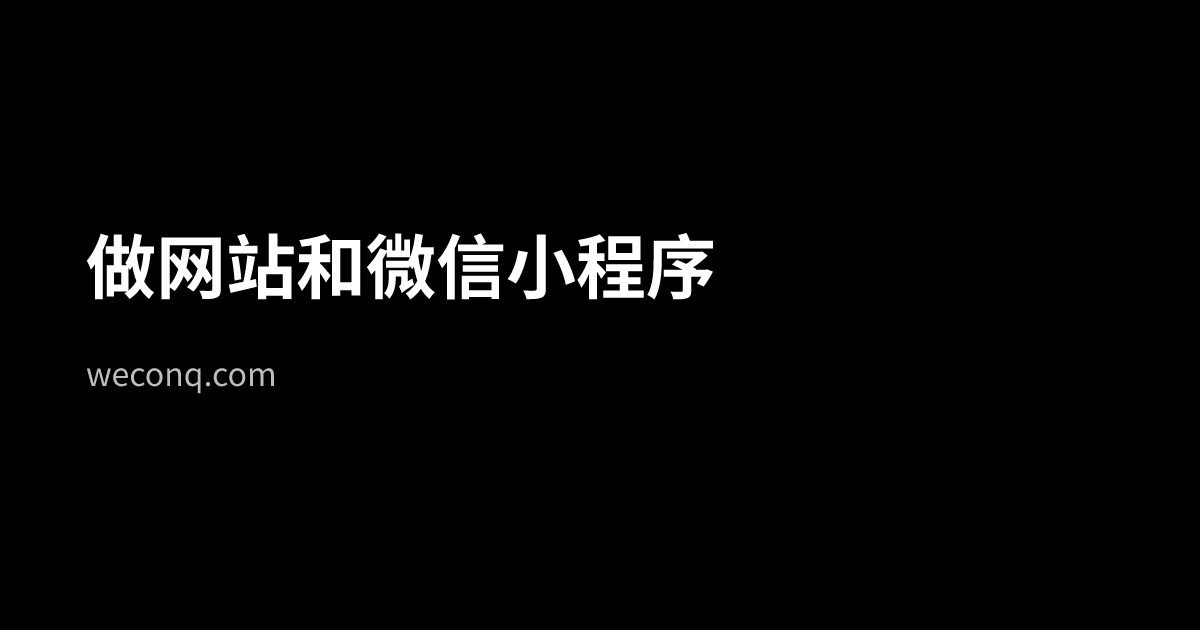
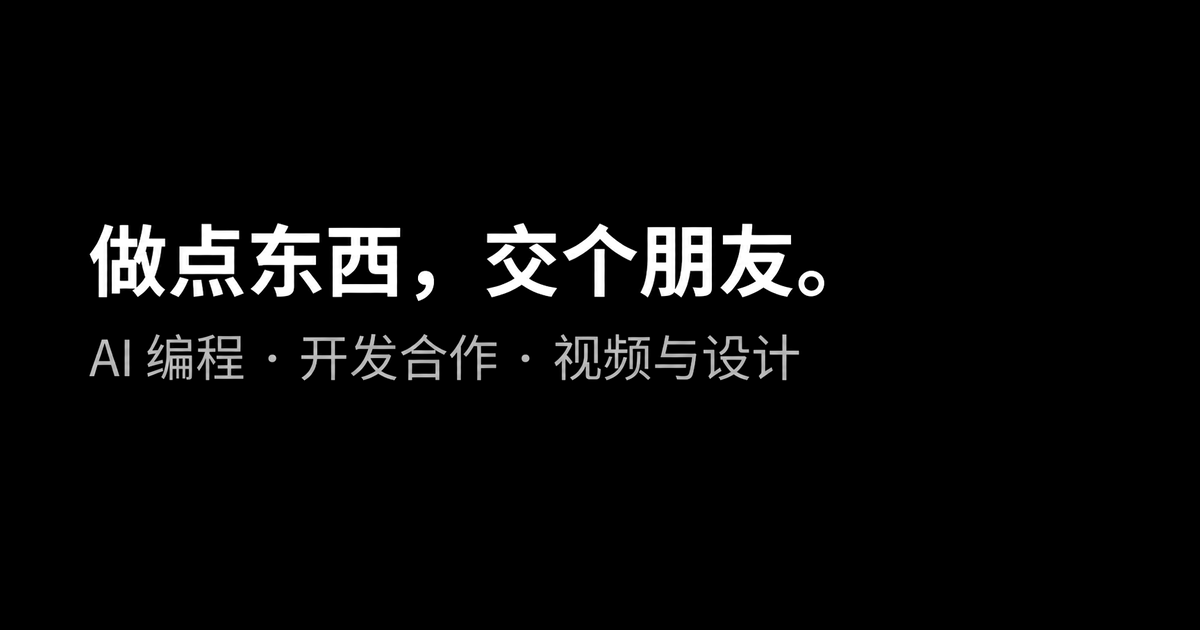
Rework the homepage around learning AI, collaborating and meeting people

Changed region(s): [[0.0617, 0.3619, 0.7092, 0.4825], [0.0617, 0.5127, 0.4317, 0.6333], [0.4625, 0.5127, 0.6783, 0.6032]]

diff --git a/src/app/globals.css b/src/app/globals.css
@@ -1,165 +1,116 @@
 :root {
   color-scheme: dark;
-  --paper: #000;
-  --ink: #fff;
-  --muted: #bdbdbd;
-  --td-brand-color: #fff;
-  --td-brand-color-hover: #e5e5e5;
-  --td-brand-color-active: #d0d0d0;
-  --td-brand-color-focus: #333;
-  --td-brand-color-disabled: #777;
-  --td-brand-color-light: #202020;
-  --td-brand-color-light-hover: #262626;
-  --td-bg-color-page: var(--paper);
-  --td-bg-color-container: #121212;
+  --paper: #090909;
+  --ink: #f5f5f5;
+  --body: #c2c2c2;
+  --soft: #aaa;
+  --line: #373737;
+  --td-brand-color: var(--ink);
+  --td-brand-color-hover: #fff;
   --td-text-color-primary: var(--ink);
-  --td-text-color-secondary: var(--muted);
-  --td-text-color-anti: var(--paper);
-  --td-component-border: #555;
-  --accent: var(--td-brand-color);
 }
 
-* {
-  box-sizing: border-box;
-}
-
+* { box-sizing: border-box; }
 body {
-  min-height: 100vh;
   margin: 0;
-  display: flex;
-  flex-direction: column;
+  min-height: 100vh;
   background: var(--paper);
   color: var(--ink);
-  font-family: system-ui, -apple-system, "PingFang SC", "Microsoft YaHei", sans-serif;
-  font-size: 1rem;
-  line-height: 1.65;
+  font: 1rem/1.75 system-ui, -apple-system, "PingFang SC", "Microsoft YaHei", sans-serif;
+  -webkit-font-smoothing: antialiased;
 }
-
-::selection {
-  background: var(--ink);
-  color: var(--paper);
+h1, h2, p, ul { margin: 0; }
+a { color: inherit; text-decoration: none; }
+button, a { touch-action: manipulation; }
+::selection { background: #eee; color: #101010; }
+:focus-visible { outline: 2px solid #fff; outline-offset: 4px; }
+[id] { scroll-margin-block: 1.5rem; }
+.shell { width: min(66rem, calc(100% - 5rem)); margin-inline: auto; }
+.masthead, .masthead nav, .colophon { display: flex; align-items: center; }
+.masthead {
+  justify-content: space-between;
+  min-height: 5.25rem;
+  border-bottom: 1px solid var(--line);
 }
-
-:focus-visible {
-  outline: 2px solid var(--accent);
-  outline-offset: 4px;
+.wordmark {
+  font-family: "Arial Black", "Helvetica Neue", Arial, sans-serif;
+  font-size: 1.18rem;
+  font-weight: 900;
+  letter-spacing: -.055em;
 }
-
-.shell {
-  width: min(28rem, calc(100% - 3rem));
-  margin-inline: auto;
+.masthead nav { gap: 1.5rem; }
+.masthead nav a, .colophon, .colophon .t-link { font-size: .875rem; color: var(--soft); }
+.masthead nav a { padding-block: .5rem; }
+.masthead nav a:hover, .colophon .t-link:hover { color: var(--ink); text-decoration: underline; }
+.spread {
+  display: grid;
+  grid-template-columns: minmax(0, 1fr) minmax(0, .94fr);
+  grid-template-areas: "intro work" "contact work";
+  grid-template-rows: auto 1fr;
+  column-gap: clamp(3rem, 7vw, 7rem);
+  row-gap: 2rem;
+  padding-block: clamp(3.75rem, 8vh, 6.5rem);
 }
-
-.page {
-  padding-block: clamp(3rem, 15vh, 10rem) 3rem;
+.introduction { grid-area: intro; }
+h1 {
+  font-size: clamp(3.1rem, 5.9vw, 4.9rem);
+  line-height: 1.19;
+  letter-spacing: -.065em;
+  font-weight: 760;
 }
-
-.page h1 {
-  margin: 0 0 1rem;
-  font-size: clamp(1.65rem, 5vw, 2.1rem);
-  font-weight: 650;
-  line-height: 1.25;
-}
-
-.intro p,
-.contact p {
-  margin: 0;
-}
-
-.intro p + p {
-  margin-top: 0.3rem;
-}
-
-.availability,
-.contact-note,
-.site-footer {
-  color: var(--muted);
-  font-size: 0.875rem;
-}
-
-.contact,
-.accounts {
-  margin-block-start: 1.6rem;
-}
-
-.contact-line,
-.account-line {
-  display: flex;
-  flex-wrap: wrap;
-  align-items: baseline;
-  column-gap: 0.65rem;
-}
-
-.contact-value,
-.account-value {
-  user-select: text;
-  overflow-wrap: anywhere;
-}
-
-.contact-value {
-  font-variant-numeric: tabular-nums;
-}
-
-.accounts {
-  margin-block-end: 0;
-  padding: 0;
-  list-style: none;
-}
-
-.accounts li {
-  min-height: 2.1rem;
-  align-content: center;
-}
-
-.page .t-link,
-.site-footer .t-link,
-.copy-button.t-button {
-  color: inherit;
-  text-decoration: underline;
-  text-underline-offset: 0.22em;
-  text-decoration-thickness: 1px;
-  font-size: inherit;
-}
-
-.page .t-link:hover,
-.site-footer .t-link:hover,
-.copy-button.t-button:hover {
-  color: var(--ink);
-  text-decoration-thickness: 2px;
-}
-
+h1 span { display: block; }
+.intro { margin-top: 1.5rem; max-width: 25em; color: var(--body); }
+.directions { grid-area: work; }
+.direction + .direction { border-top: 1px solid var(--line); margin-top: 1.3rem; padding-top: 1.3rem; }
+.direction h2 { font-size: 1.25rem; line-height: 1.4; font-weight: 680; margin-bottom: .4rem; }
+.direction p { color: var(--body); line-height: 1.7; }
+.direction .free-note { color: var(--ink); margin-top: .35rem; font-weight: 600; }
+.contact { grid-area: contact; align-self: start; }
+.contact-line { display: flex; align-items: baseline; gap: .85rem; flex-wrap: wrap; }
+.contact-kind { width: 2.25rem; color: var(--body); font-size: .9375rem; }
+.contact-value { font: 1.075rem/1.7 ui-monospace, "SFMono-Regular", Consolas, monospace; }
+.contact-note, .network { font-size: .875rem; color: var(--soft); }
+.contact-note { margin-top: .35rem; }
 .copy-button.t-button,
-.copy-button.t-button:hover,
-.copy-button.t-button:active,
-.copy-button.t-button:focus {
-  min-width: 0;
-  min-height: 1.75rem;
-  height: auto;
-  padding: 0;
-  border: 0;
-  border-radius: 0;
-  background: transparent;
-  font-size: 0.875rem;
+.copy-button.t-button:is(:hover, :focus, :active) {
+  height: auto; min-height: 1.9rem; min-width: 2.3rem; padding: 0 .15rem; border: 0;
+  background: transparent; box-shadow: none; color: var(--body); font-size: .875rem;
+  text-decoration: underline; text-decoration-color: #777; text-underline-offset: .25em;
 }
-
-.copy-feedback {
-  display: block;
-  font-size: 0.875rem;
+.copy-button.t-button:hover { text-decoration-color: #fff; color: #fff; }
+.copy-feedback { display: block; color: var(--ink); font-size: .875rem; }
+.visually-hidden { position: absolute; width: 1px; height: 1px; padding: 0; overflow: hidden; clip-path: inset(50%); white-space: nowrap; }
+.account-band { padding-block: 1.5rem 1.8rem; border-block: 1px solid var(--line); }
+.account-band h2 { font-size: .875rem; color: var(--body); font-weight: 500; margin-bottom: .8rem; }
+.accounts { display: grid; grid-template-columns: .8fr 1fr 1.15fr 1.25fr 1.1fr; gap: 1.2rem; list-style: none; padding: 0; }
+.accounts li { min-width: 0; }
+.social-link.t-link, .search-account { display: block; color: var(--ink); }
+.network { display: block; line-height: 1.5; margin-bottom: .12rem; }
+.account-name { font-size: 1rem; line-height: 1.6; overflow-wrap: anywhere; }
+.social-link .account-name { text-decoration: underline; text-decoration-color: #6a6a6a; text-underline-offset: .24em; }
+.social-link.t-link:hover { text-decoration: none; color: var(--ink); }
+.social-link.t-link:hover .account-name { text-decoration-color: #fff; }
+.search-account .copy-button { margin-left: .35rem; min-width: auto; }
+.colophon { justify-content: space-between; gap: 1rem; padding-block: 1.05rem 2rem; }
+.colophon .t-link { color: inherit; }
+.page { padding-block: 18vh 3rem; }
+.page .t-link { margin-top: 1.5rem; color: var(--ink); text-decoration: underline; }
+@media (max-width: 55rem) {
+  .shell { width: calc(100% - 3.5rem); }
+  .spread { column-gap: 2.6rem; }
+  .accounts { grid-template-columns: repeat(3, minmax(0, 1fr)); row-gap: 1.1rem; }
 }
-
-.visually-hidden {
-  position: absolute;
-  width: 1px;
-  height: 1px;
-  margin: -1px;
-  padding: 0;
-  overflow: hidden;
-  clip-path: inset(50%);
-  white-space: nowrap;
-}
-
-.site-footer {
-  margin-block-start: auto;
-  padding: 1rem 1.5rem 1.5rem;
-  text-align: center;
+@media (max-width: 44rem) {
+  .shell { width: calc(100% - 2.75rem); max-width: 34rem; }
+  .masthead { min-height: 4.25rem; }
+  .masthead nav { gap: 1rem; }
+  .spread { display: flex; flex-direction: column; gap: 1.75rem; padding-block: 2.6rem 2rem; }
+  h1 { font-size: clamp(3.1rem, 11vw, 4.15rem); }
+  .intro { margin-top: 1.2rem; }
+  .directions { width: 100%; }
+  .direction:first-child, .contact { border-top: 1px solid var(--line); padding-top: 1.25rem; }
+  .direction + .direction { margin-top: 1rem; padding-top: 1rem; }
+  .contact { width: 100%; }
+  .accounts { grid-template-columns: repeat(2, minmax(0, 1fr)); }
+  .colophon { align-items: flex-start; flex-wrap: wrap; gap: .25rem 1rem; }
 }

diff --git a/src/app/page.tsx b/src/app/page.tsx
@@ -7,46 +7,71 @@ export default function HomePage() {
   const { wechat, qq } = contact;
 
   return (
-    <>
-      <main className="shell page" id="main-content" aria-labelledby="site-title">
-        <h1 id="site-title">{profile.headline}</h1>
-        <div className="intro" id="work">
-          {profile.intro.map((line) => <p key={line}>{line}</p>)}
-          <p className="availability">{collaboration.availability}</p>
+    <div className="shell">
+      <header className="masthead">
+        <span className="wordmark">{site.wordmark}</span>
+        <nav aria-label="页面导航">
+          <a href="#contact">联系方式</a>
+          <a href="#links">社交账号</a>
+        </nav>
+      </header>
+
+      <main id="main-content" className="spread">
+        <div className="introduction">
+          <h1>{profile.headline.map(line => <span key={line}>{line}</span>)}</h1>
+          <p className="intro">{profile.intro}</p>
         </div>
+        <section className="directions" id="work" aria-label="可以一起做的事">
+          {collaboration.directions.map(({ title, description, note }) => (
+            <section className="direction" key={title}>
+              <h2>{title}</h2>
+              <p>{description}</p>
+              {note && <p className="free-note">{note}</p>}
+            </section>
+          ))}
+        </section>
 
         <section className="contact" id="contact" aria-label="联系方式">
           <div className="contact-line">
-            <span className="contact-value">{wechat.label} {wechat.value}</span>
-            <CopyButton label="复制微信号" value={wechat.value} failureMessage="请手动复制微信号" />
+            <span className="contact-kind">{wechat.label}</span>
+            <span className="contact-value">{wechat.value}</span>
+            <CopyButton label="复制微信号" value={wechat.value} failureMessage="请长按或选中微信号复制" />
+          </div>
+          <div className="contact-line">
+            <span className="contact-kind">QQ</span>
+            <span className="contact-value">{qq}</span>
+            <CopyButton label="复制 QQ 号" value={qq} failureMessage="请长按或选中 QQ 号复制" />
           </div>
           <p className="contact-note">{wechat.note}</p>
-          {qq && (
-            <div className="contact-line">
-              <span className="contact-value">QQ {qq}</span>
-              <CopyButton label="复制 QQ 号" value={qq} failureMessage="请手动复制 QQ 号" />
-            </div>
-          )}
         </section>
-
-        <ul className="accounts" id="links" aria-label="公开账号" role="list">
-          {socialLinks.map(({ label, value, href }) => (
-            <li key={href}>
-              <Link href={href}>{label} {value}</Link>
-            </li>
-          ))}
-          {collaboration.searchLinks.map(({ platform, value, action }) => (
-            <li className="account-line" key={platform}>
-              <span className="account-value">{platform} {value}</span>
-              <CopyButton label={action} value={value} />
-            </li>
-          ))}
-        </ul>
       </main>
 
-      <footer className="site-footer">
-        <Link href={footer.icp.href} rel="noreferrer" target="_blank">{footer.icp.label}</Link>
+      <footer className="site-footer" id="links">
+        <div className="account-band">
+          <h2>其他账号</h2>
+          <ul className="accounts" aria-label="公开账号">
+            {socialLinks.map(({ label, value, href }) => (
+              <li key={href}>
+                <Link href={href} className="social-link">
+                  <span className="network">{label}</span>
+                  <span className="account-name">{value}</span>
+                </Link>
+              </li>
+            ))}
+            {collaboration.searchLinks.map(({ platform, value, action }) => (
+              <li className="search-account" key={platform}>
+                <span className="network">{platform}</span>
+                <span className="account-name">{value}</span>
+                <CopyButton label={action} value={value} />
+              </li>
+            ))}
+          </ul>
+        </div>
+        <div className="colophon">
+          <span>{collaboration.availability}</span>
+          <Link href={footer.icp.href} rel="noreferrer" target="_blank">{footer.icp.label}</Link>
+        </div>
       </footer>
-    </>
+    </div>
   );
 }
